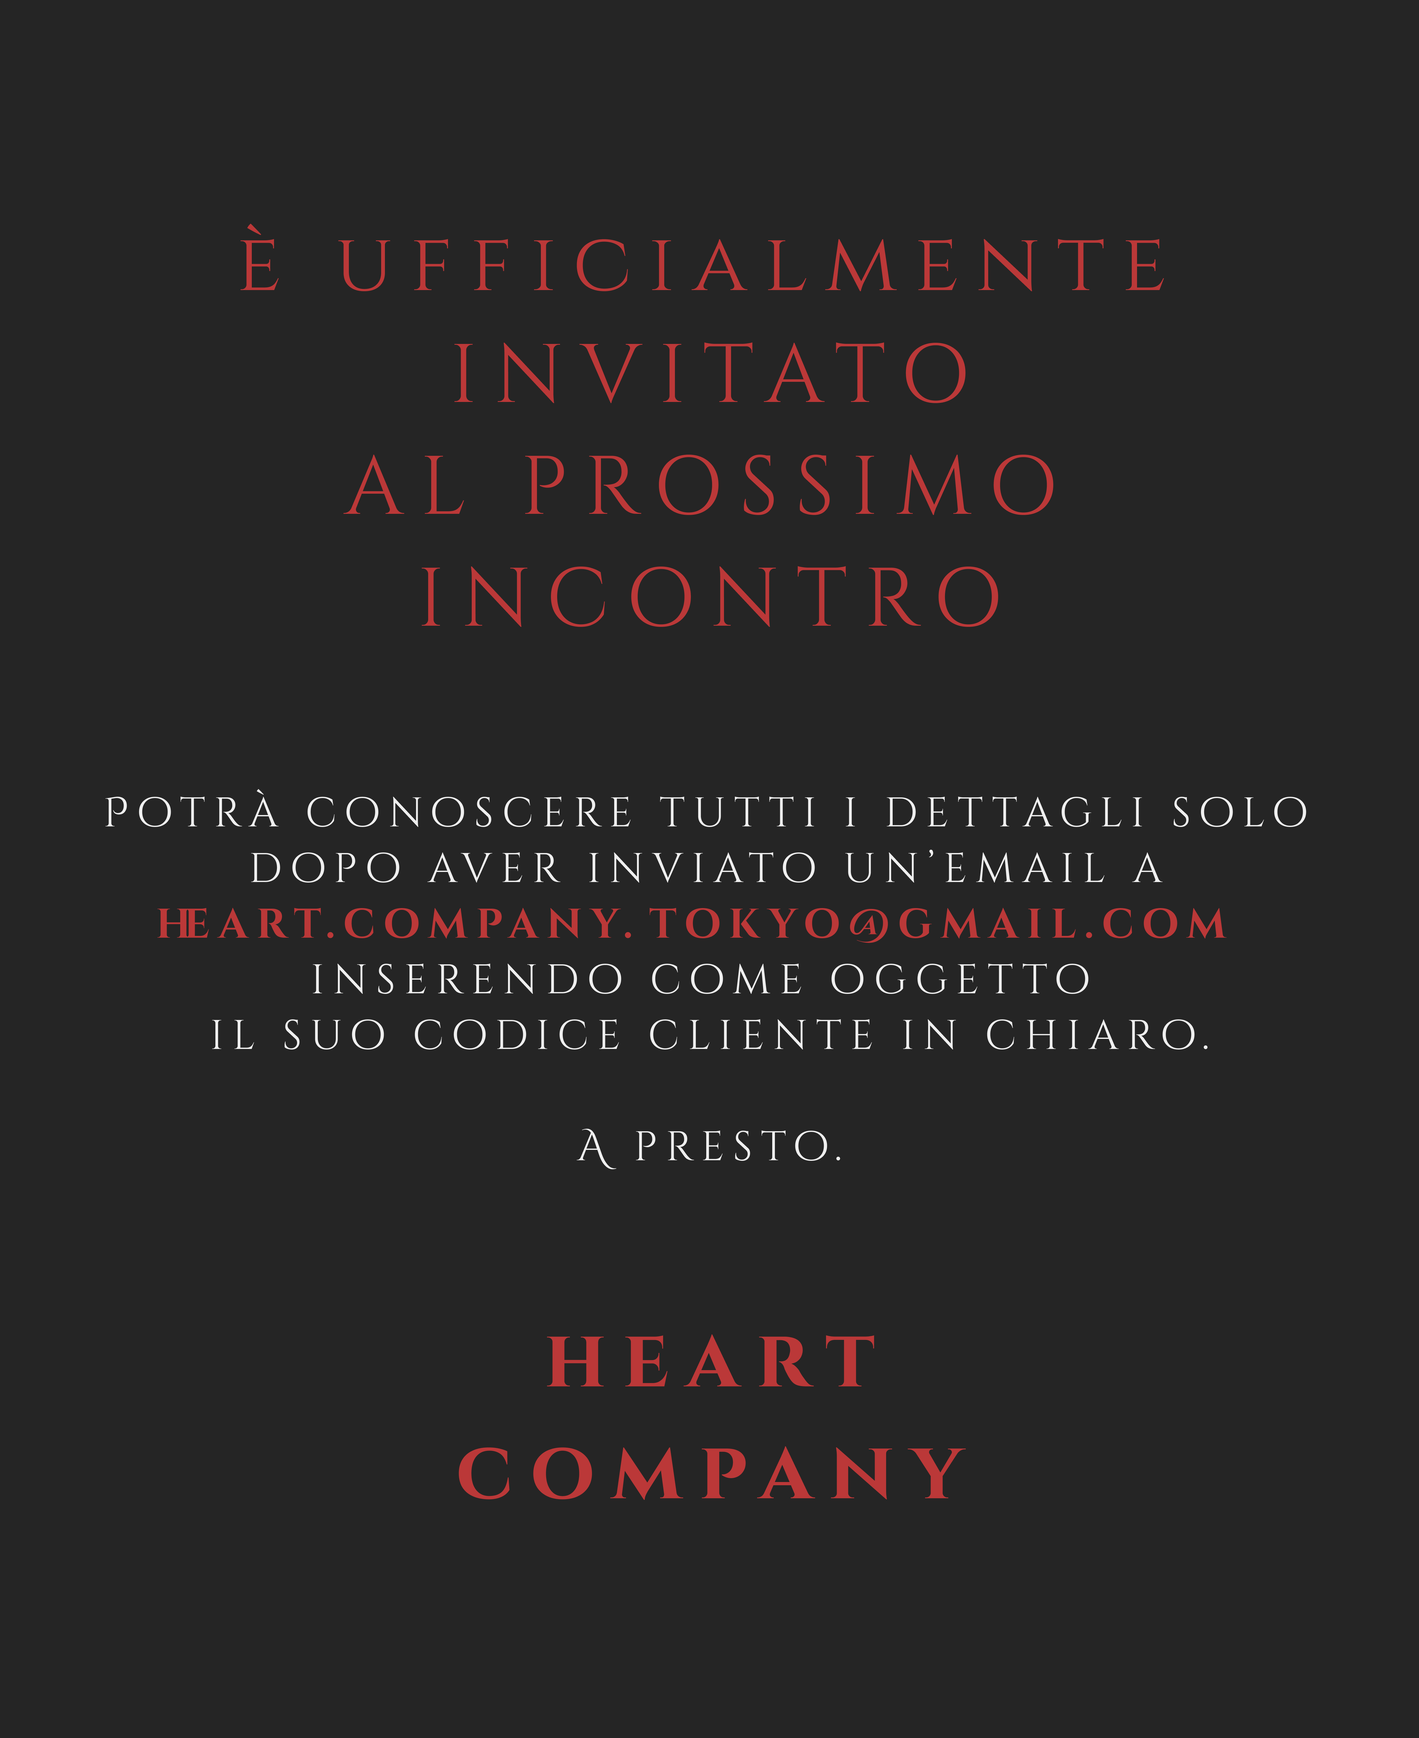
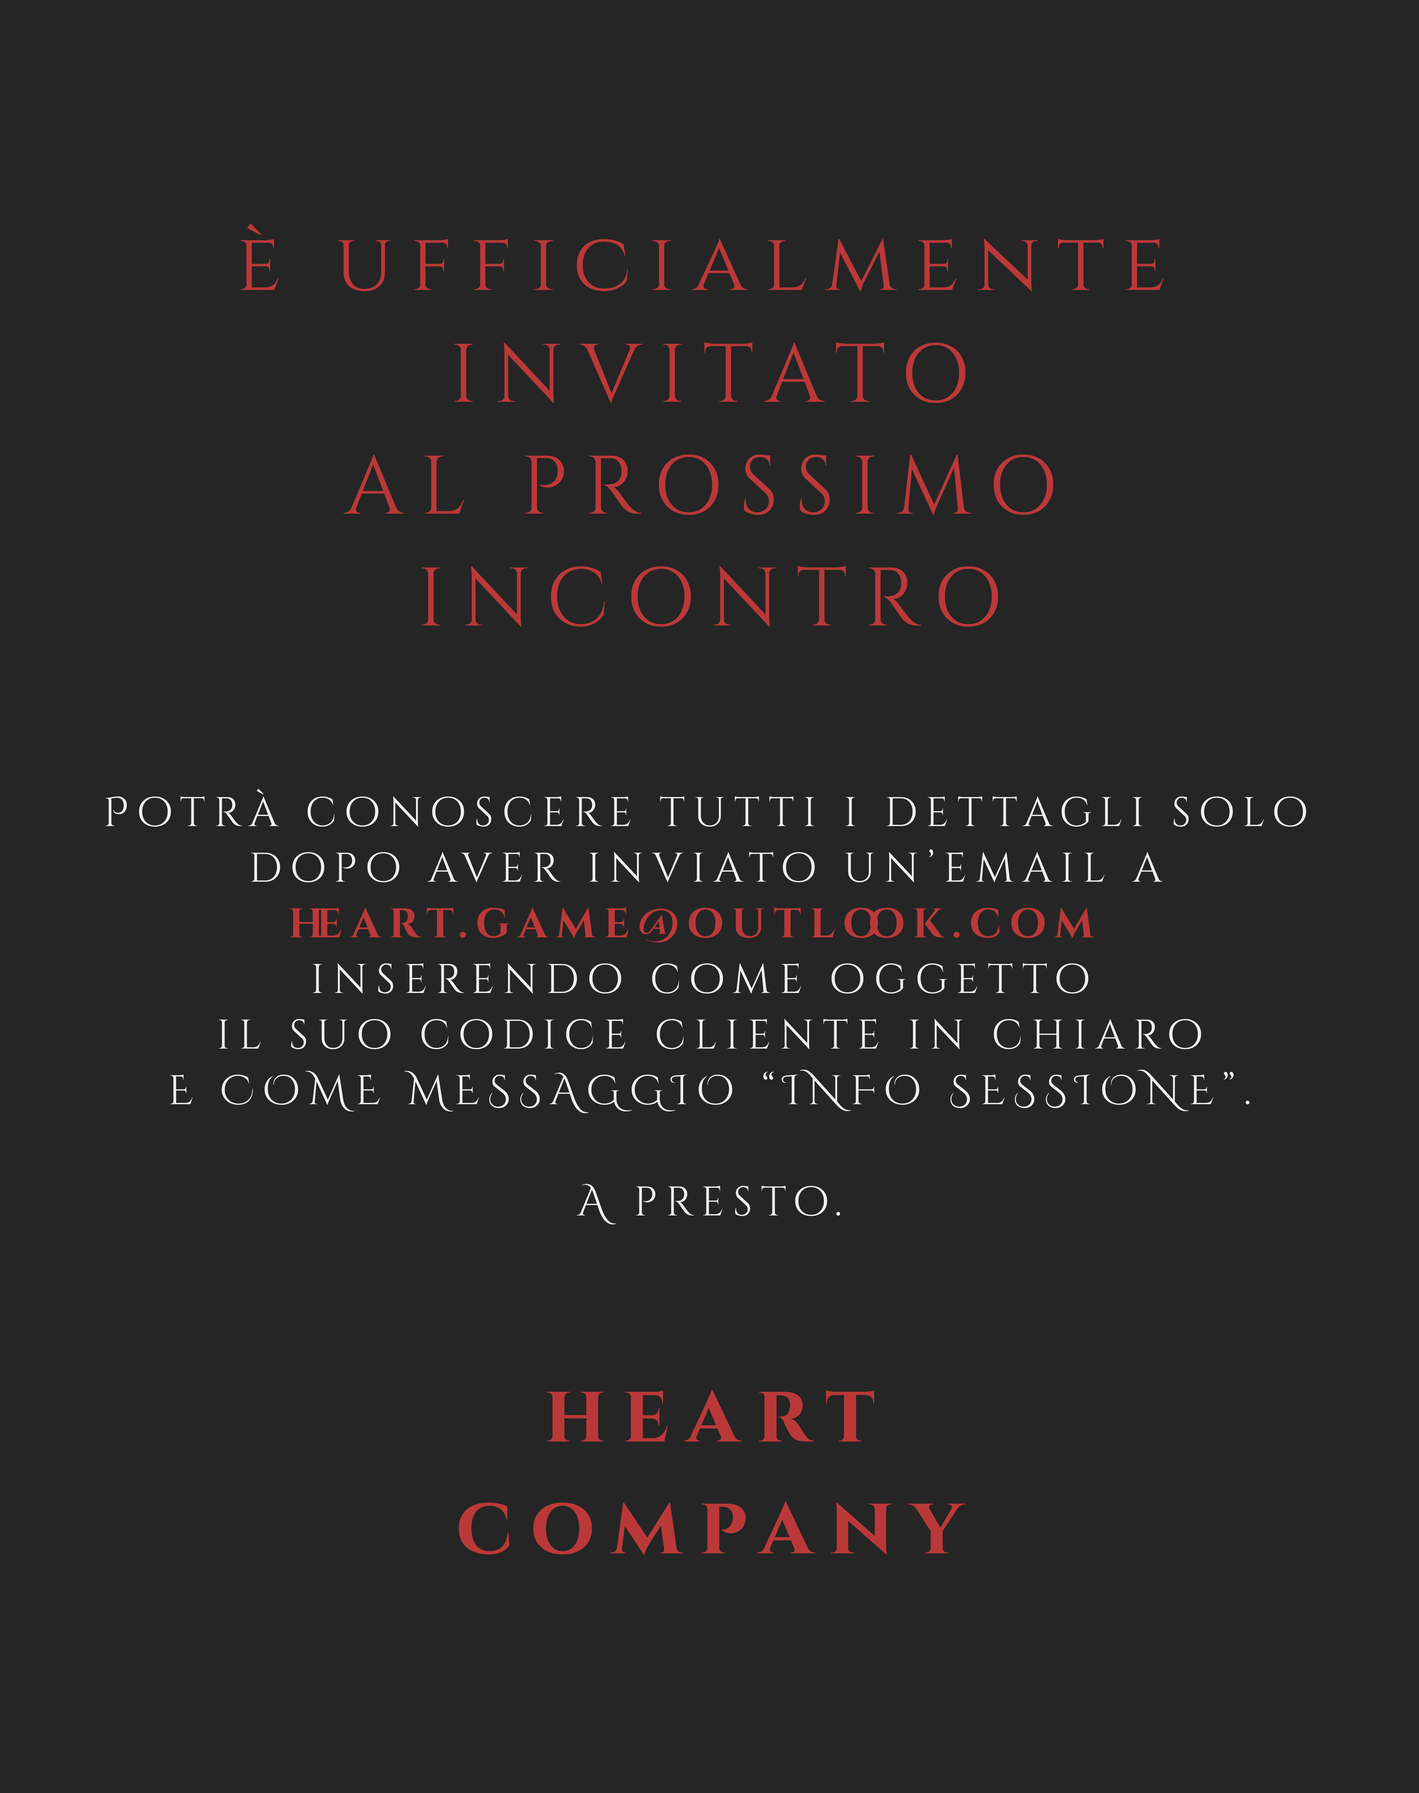
ultima versione

diff --git a/src/app/core/data/emails.data.ts b/src/app/core/data/emails.data.ts
@@ -1,63 +1,73 @@
 import { EmailModel } from '../models/email.model';
 
 export const emails: { [key: string]: EmailModel[] } = {
[1 lines of base64/hex data omitted]
+  'marco.mancini@pmail.mycases.org': [
     {
-      id: 7,
+      id: 1,
       sender: 'WhiteGuard',
       subject: 'RE: Si può condizionare il funzionamento dei telecomandi TJ2888?',
       body: 'Ciao,\nabbiamo ricevuto la tua domanda del 10/03/2025,\ngrazie per averci contattato.\nDopo diversi test, ti confermiamo che non è possibile condizionare il funzionamento dei telecomandi TJ2888, il chip al loro interno presenta un sistema di cifratura non bypassabile.\nSe hai bisogno di ulteriori informazioni, non esitare a contattarci.\nGrazie!',
-      date: new Date("2025-03-29"),
-      images: ['assets/logo.png'],
+      date: new Date("2025-03-29T23:59:59"),
       folder: 'inbox',
       toRead: true
     },
     {
-      id: 9,
+      id: 2,
       sender: 'Tu',
       to: 'Giorgia D\'Agostino',
       subject:
         'RE: Che fine hai fatto?',
-      body: 'Puoi pensarci tu, tanto la mia opinione non conta! Poi sono impegnato con la preparazione degli spettacoli, lo sai.',
+      body: 'Puoi pensarci tu, tanto la mia opinione non conta! Poi sono impegnato con la preparazione degli spettacoli, lo sai.\n\n\n\n---------------------Original Message---------------------\n\nDa: Giorgia D\'agostino\nDate: Ven 14 Feb 2025\n\nTi mando un\'email dato che non rispondi al telefono, entra in call immediatamente! Ti stiamo tutti aspettando!',
       date: new Date("2025-03-16"),
       folder: 'sent',
     },
     {
-      id: 1,
+      id: 3,
       sender: 'Giorgia D\'Agostino',
       subject:
         'Che fine hai fatto?',
       body: 'Ti mando un\'email dato che non rispondi al telefono, entra in call immediatamente! Ti stiamo tutti aspettando!',
-      date: new Date("2025-03-16"),
+      date: new Date("2025-02-14T12:12:50"),
       folder: 'inbox',
     },
     {
-      id: 2,
-      sender: 'Luigi Barra',
-      subject: 'Progetto Maximium - Documento aggiornato e nuove scadenze',
-      body: 'Ciao,\nti ho invio il documento aggiornato per il Progetto Maximium.\nHo incluso tutte le modifiche richieste e le nuove scadenze.\nFammi sapere se hai bisogno di ulteriori informazioni.\nGrazie!',
-      date: new Date("2025-03-17"),
-      folder: 'inbox',
-    },
-    {
-      id: 3,
-      sender: 'Nimbus AI',
-      subject: 'Esplora l’app Nimbus, l’assistente IA che ti segue ovunque',
-      body: 'Scarica l’app Nimbus sul tuo dispositivo mobile mantenendo le chat e le query del tuo PC per continuare a lavorare ai tuoi progetti anche quando sei in giro, realizzare immagini creative e modificare foto dal tuo telefono.',
-      date: new Date("2025-03-17"),
+      id: 23,
+      sender: 'Supporto Tecnico',
+      subject:
+        'Eliminazione automatica Email precedenti al 14/02/2025',
+      body: 'Gentile utente,\nti informiamo che, in conformità con le policy aziendali sulla conservazione dei dati, le sue email precedenti alla data corrente sono state automaticamente eliminate.\nTi invitiamo a salvare eventuali informazioni importanti in locale.\n\nPer ulteriori dettagli, contatta il supporto IT.\n\nCordiali saluti, Il Team IT',
+      date: new Date("2025-02-14T12:12:50"),
       folder: 'inbox',
     },
     {
       id: 4,
-      sender: 'Giulia Neri',
-      subject:
-        'Vacanze estive - Idee e suggerimenti per la tua prossima destinazione',
-      body: 'Ciao, hai già deciso dove andare per le vacanze estive? Se hai bisogno di idee o suggerimenti, fammi sapere. Ho alcune destinazioni che potrebbero interessarti. A presto!',
-      date: new Date("2025-03-19"),
-      folder: 'sent',
+      sender: 'Luigi Barra',
+      subject: 'Progetto Maximium - Documento aggiornato e nuove scadenze',
+      body: 'Ciao\nHo caricato il documento aggiornato per il Progetto Maximium.\nHo incluso tutte le modifiche richieste e le nuove scadenze.\nFammi sapere se hai bisogno di ulteriori informazioni.\nGrazie!',
+      date: new Date("2025-03-17T14:20:00"),
+      folder: 'inbox',
     },
     {
       id: 5,
+      sender: 'Nimbus AI',
+      subject: 'Esplora l’app Nimbus, l’assistente IA che ti segue ovunque',
+      body: 'Scarica l’app Nimbus sul tuo dispositivo mobile mantenendo le chat e le query del tuo PC per continuare a lavorare ai tuoi progetti anche quando sei in giro, realizzare immagini creative e modificare foto dal tuo telefono.',
+      date: new Date("2025-03-17"),
+      images: ['assets/nimbus.png'],
+      folder: 'inbox',
+    },
+    {
+      id: 6,
+      sender: 'Travel Around',
+      subject:
+        'Vacanze estive - Idee e suggerimenti per la tua prossima destinazione 🏖⛱',
+      body: 'Ciao, hai già deciso dove andare per le vacanze estive?\nSe hai bisogno di idee o suggerimenti, fammi sapere.\nHo alcune destinazioni che potrebbero interessarti.\n\nA presto!',
+      date: new Date("2025-03-19"),
+      images: ['assets/vacanza.png'],
+      folder: 'inbox',
+    },
+    {
+      id: 7,
       sender: 'Francesco Michelini',
       subject: 'Abstract Tesi',
       body: 'Ciao, ecco il link per il documento di cui ti parlavo: <a target="_blank" href="assets/docs/abstract-tesi.pdf">Link</a> ',
@@ -65,119 +75,72 @@ export const emails: { [key: string]: EmailModel[] } = {
       folder: 'inbox',
     },
     {
-      id: 6,
+      id: 8,
       sender: 'Giacomo Ferrante',
-      subject: 'Pronto? Ti stiamo aspettando!',
-      body: "Questa è la volta buona, me lo sento!",
+      subject: 'Fwd: Pronto? Ti stiamo aspettando!',
+      body: "Questa è la volta buona, me lo sento!\n\n---------------------Forwarded Message---------------------\n\nDa: Heath Company\nDate: Mer 26 Mar 2025 01:20\nA: Giacomo Ferrante",
       images: ['assets/email-heart.png'],
-      date: new Date("2025-03-27"),
+      date: new Date("2025-03-27T12:15:00"),
       folder: 'inbox',
     },
     {
-      id: 8,
-      sender: 'sara.neri@example.com',
-      subject: 'Evento aziendale - Non mancare al nostro evento annuale',
-      body: "Ciao, ti ricordo il nostro evento aziendale annuale che si terrà la prossima settimana. È un'ottima occasione per incontrare colleghi e discutere dei nostri successi. Non mancare!",
-      date: new Date(),
+      id: 13,
+      sender: 'Anna Verdi',
+      subject: 'Gala anniversario 🍾 - Conferma la tua presenza',
+      body: 'Ciao!\nCome sapete il 29 Marzo la nostra azienda compirà 22 anni.\nFesteggia con noi! Ci vediamo Venerdì 28 Marzo alle 21:00 per attendere insieme la mezzanotte 🎇!\nNon mancherà da bere e mangiare per tutti 🍕🍾.\nTi aspettiamo!',
+      date: new Date("2025-03-20T17:00:00"),
+      images: ['assets/festa.png'],
       folder: 'inbox',
     },
     {
-      id: 9,
-      sender: 'luca.rossi@example.com',
-      subject: 'Richiesta informazioni - Maggiori dettagli sul progetto',
-      body: 'Ciao, puoi inviarmi maggiori dettagli sul progetto di cui abbiamo parlato? Ho bisogno di alcune informazioni aggiuntive per procedere. Grazie per la collaborazione.',
-      date: new Date(),
-      folder: 'trash',
-    },
-    {
-      id: 10,
-      sender: 'Elena Bianchi',
-      subject: 'Nuovo incarico - Dettagli del progetto assegnato',
-      body: 'Ciao,\nti è stato assegnato un nuovo progetto.\nIn allegato trovi tutti i dettagli e le scadenze. Se hai domande, non esitare a contattarmi.\nBuon lavoro!',
-      date: new Date(),
-      folder: 'trash',
-    },
-    {
-      id: 1,
-      sender: 'mario.rossi@example.com',
-      subject:
-        'Ciao Mario, come stai? Spero tutto bene e che tu abbia passato una buona giornata.',
-      body: 'Ciao Mario, come stai? Spero tutto bene e che tu abbia passato una buona giornata. Volevo solo farti sapere che ho ricevuto il tuo messaggio e ti risponderò al più presto. A presto!',
-      date: new Date(),
-      folder: 'inbox',
-    },
-    {
-      id: 2,
-      sender: 'luigi.bianchi@example.com',
-      subject: 'Progetto X - Documento aggiornato e nuove scadenze',
-      body: 'Ciao, ti invio il documento aggiornato per il Progetto X. Ho incluso tutte le modifiche richieste e le nuove scadenze. Fammi sapere se hai bisogno di ulteriori informazioni. Grazie!',
-      date: new Date(),
-      folder: 'inbox',
-    },
-    {
-      id: 3,
-      sender: 'anna.verdi@example.com',
-      subject: 'Cena di lavoro - Conferma della tua presenza',
-      body: 'Ciao, volevo sapere se puoi confermare la tua presenza alla cena di lavoro di venerdì prossimo. È importante per noi sapere il numero esatto di partecipanti. Grazie!',
-      date: new Date(),
-      folder: 'inbox',
-    },
-    {
-      id: 4,
-      sender: 'giulia.neri@example.com',
-      subject:
-        'Vacanze estive - Idee e suggerimenti per la tua prossima destinazione',
-      body: 'Ciao, hai già deciso dove andare per le vacanze estive? Se hai bisogno di idee o suggerimenti, fammi sapere. Ho alcune destinazioni che potrebbero interessarti. A presto!',
-      date: new Date(),
-      folder: 'inbox',
-    },
-    {
-      id: 5,
-      sender: 'francesco.rossi@example.com',
-      subject: 'Nuova offerta - Scopri le nostre promozioni esclusive',
-      body: 'Ciao, ti invio le nostre nuove promozioni esclusive. Abbiamo sconti speciali su una vasta gamma di prodotti. Non perdere questa occasione! Visita il nostro sito per maggiori dettagli.',
-      date: new Date(),
-      folder: 'inbox',
-    },
-    {
-      id: 6,
-      sender: 'marta.bianchi@example.com',
+      id: 16,
+      sender: 'Martina Russo',
       subject: 'Riunione settimanale - Promemoria e ordine del giorno',
-      body: "Ciao, ti ricordo la riunione settimanale di domani. In allegato trovi l'ordine del giorno. Se hai argomenti da aggiungere, fammi sapere. Grazie!",
+      body: "Ciao!\nTi ricordo la riunione settimanale di domani.\nHo caricato il programma della riunione.\nSe hai argomenti da aggiungere, fammi sapere.\n\nGrazie!",
       date: new Date(),
       folder: 'inbox',
     },
     {
-      id: 7,
-      sender: 'paolo.verdi@example.com',
-      subject: 'Aggiornamento software - Nuova versione disponibile',
-      body: 'Ciao, è disponibile un nuovo aggiornamento del software. Ti consiglio di installarlo il prima possibile per beneficiare delle ultime funzionalità e miglioramenti. Se hai domande, contattami.',
+      id: 17,
+      sender: 'Supporto Tecnico',
+      subject: 'Aggiornamento software aziendale - Nuova versione disponibile',
+      body: 'Ciao\nè disponibile un nuovo aggiornamento del software. \ni consiglio di installarlo il prima possibile per beneficiare delle ultime funzionalità e miglioramenti.\n\nSe hai domande, contattami.',
       date: new Date(),
       folder: 'inbox',
     },
     {
-      id: 8,
-      sender: 'sara.neri@example.com',
-      subject: 'Evento aziendale - Non mancare al nostro evento annuale',
-      body: "Ciao, ti ricordo il nostro evento aziendale annuale che si terrà la prossima settimana. È un'ottima occasione per incontrare colleghi e discutere dei nostri successi. Non mancare!",
-      date: new Date(),
-      folder: 'inbox',
-    },
-    {
-      id: 9,
-      sender: 'luca.rossi@example.com',
+      id: 19,
+      sender: 'Luca Rossi',
       subject: 'Richiesta informazioni - Maggiori dettagli sul progetto',
-      body: 'Ciao, puoi inviarmi maggiori dettagli sul progetto di cui abbiamo parlato? Ho bisogno di alcune informazioni aggiuntive per procedere. Grazie per la collaborazione.',
-      date: new Date(),
+      body: 'Ciao, puoi inviarmi le informazioni che ti ho chiesto per il progetto di cui abbiamo parlato?\nHo bisogno di alcune informazioni aggiuntive per procedere.\n\nGrazie per la collaborazione.',
+      date: new Date("2025-03-18T15:23"),
       folder: 'inbox',
     },
     {
-      id: 10,
-      sender: 'elena.bianchi@example.com',
-      subject: 'Nuovo incarico - Dettagli del progetto assegnato',
-      body: 'Ciao, ti è stato assegnato un nuovo progetto. In allegato trovi tutti i dettagli e le scadenze. Se hai domande, non esitare a contattarmi. Buon lavoro!',
-      date: new Date(),
+      id: 20,
+      sender: 'Martina Russo',
+      subject: 'Aggiornamento sulla riunione di domani con il cliente',
+      body: 'Ciao, ti scrivo per confermare l\'orario della riunione di domani.\nFacci sapere se ci sono variazioni.\n\nA presto!',
+      date: new Date("2025-03-15T15:23"),
       folder: 'inbox',
+    },
+    {
+      id: 21,
+      sender: 'Tu',
+      to: 'Martina Russo',
+      subject: 'RE: Aggiornamento sulla riunione di domani con il cliente',
+      body: 'Ciao, per me va bene\n\n\n\n---------------------Original Message---------------------\n\nDa: Martina Russo\nDate: Sab 15 Marzo 2025\n\nCiao, ti scrivo per confermare l\'orario della riunione di domani.\nFacci sapere se ci sono variazioni.\n\nA presto!',
+      date: new Date("2025-03-16T12:23"),
+      folder: 'sent',
+    },
+    {
+      id: 22,
+      sender: 'Anna Verdi',
+      subject: 'RE: Gala anniversario 🍾 - Conferma la tua presenza',
+      body: 'Non ci sarò, ho lo spettacolo la sera.\n\n\n\n---------------------Original Message---------------------\n\n\nDa: Anna Verdi\nDate: Gio 20 Marzo 2025\n\nCome sapete il 29 Marzo la nostra azienda compirà 22 anni.\nFesteggia con noi! Ci vediamo Venerdì 28 Marzo alle 21:00 per attendere insieme la mezzanotte 🎇!\nNon mancherà da bere e mangiare per tutti 🍕🍾.\nTi aspettiamo!',
+      date: new Date("2025-03-21T15:00:00"),
+      images: ['assets/festa.png'],
+      folder: 'sent',
     },
   ],
 };

diff --git a/src/app/folder/folder.component.html b/src/app/folder/folder.component.html
@@ -1,46 +1,20 @@
-<link
-  rel="stylesheet"
-  href="//cdn.materialdesignicons.com/3.7.95/css/materialdesignicons.min.css"
-/>
+<link rel="stylesheet" href="//cdn.materialdesignicons.com/3.7.95/css/materialdesignicons.min.css" />
 
 <mat-sidenav-container class="sidenav-container" fullscreen>
-  <mat-sidenav
-    #sidenav
-    class="py-2 px-4"
-    [opened]="sidenavMode === 'side' || isSidenavOpen"
-    [mode]="sidenavMode"
-  >
+  <mat-sidenav #sidenav class="py-2 px-4" [opened]="sidenavMode === 'side' || isSidenavOpen" [mode]="sidenavMode">
     <mat-nav-list class="h-100">
       <!-- <span class="username">
         {{ (authService.getUsername()?.split("@"))![0] }}
       </span> -->
-      <a
-        (click)="toggleSidenav()"
-        routerLink="/inbox"
-        routerLinkActive="active-list-item"
-        mat-list-item
-        class="mb-2"
-      >
+      <a (click)="toggleSidenav()" routerLink="/inbox" routerLinkActive="active-list-item" mat-list-item class="mb-2">
         <mat-icon matListItemIcon class="me-2">inbox</mat-icon>
         <span matListItemTitle>Posta in arrivo</span>
       </a>
-      <a
-        (click)="toggleSidenav()"
-        routerLink="/sent"
-        routerLinkActive="active-list-item"
-        mat-list-item
-        class="mb-2"
-      >
+      <a (click)="toggleSidenav()" routerLink="/sent" routerLinkActive="active-list-item" mat-list-item class="mb-2">
         <mat-icon matListItemIcon class="me-2">send</mat-icon>
         <span matListItemTitle>Inviati</span>
       </a>
-      <a
-        (click)="toggleSidenav()"
-        routerLink="/trash"
-        routerLinkActive="active-list-item"
-        mat-list-item
-        class="mb-2"
-      >
+      <a (click)="toggleSidenav()" routerLink="/trash" routerLinkActive="active-list-item" mat-list-item class="mb-2">
         <mat-icon matListItemIcon class="me-2">delete</mat-icon>
         <span matListItemTitle>Eliminate</span>
       </a>
@@ -64,18 +38,23 @@
           @case ('sent') { Inviati } @case ('deleted') { Eliminate } }
         </span>
       </div>
-      <span
-        ><span style="font-size: 1.5rem">P</span
-        ><small style="color: rgb(218, 218, 218)">mail</small></span
-      >
+      <span><span style="font-size: 1.5rem">P</span><small style="color: rgb(218, 218, 218)">mail</small></span>
     </mat-toolbar>
     <div class="px-3">
       <div class="email-wrapper wrapper h-100">
         <div class="row align-items-stretch h-100">
           <div class="mail-list-container col-md-10 border-right w-100">
             <div class="mail-list">
-              @for (email of emails$ | async; track email.id) {
+              @for (email of emails$ | async; track email.id;let last = $last) {
               <app-mail-item [mail]="email"></app-mail-item>
+              }@empty {
+              <!-- Se non ci sono email, mostra un messaggio -->
+              <div class="no-emails text-center mt-5" style="color: #6c757d; font-family: Arial, sans-serif;">
+                <mat-icon class="mb-2" style="scale: 3; color: #9e9e9e;">inbox</mat-icon>
+                <br><br>
+                <h3 style="font-weight: bold; font-size: 1.5rem;">Non hai email in questa cartella</h3>
+                <p style="font-size: 1rem; margin-top: 0.5rem;">Controlla le altre cartelle.</p>
+              </div>
               }
             </div>
           </div>

diff --git a/src/app/core/resolvers/email.resolver.ts b/src/app/core/resolvers/email.resolver.ts
@@ -6,7 +6,7 @@ import { AuthService } from '../services/auth.service';
 
 export const emailResolver: ResolveFn<EmailModel> = (route, state) => {
   const id = route.params['id'];
-  const token = inject(AuthService).getToken();
+  const username = inject(AuthService).getUsername();
 
-  return emails[token!].find(email => email.id.toString() === id)!;
+  return emails[username!].find(email => email.id.toString() === id)!;
 };

diff --git a/src/app/folder/folder.component.ts b/src/app/folder/folder.component.ts
@@ -49,7 +49,7 @@ export class FolderComponent {
     this.currentFolder = route.params.pipe(map((params) => params['folder']));
     this.emails$ = this.currentFolder.pipe(
       map((folder) =>
-        emails[authService.getToken()!]
+        emails[authService.getUsername()!]
           .filter((em) => em.folder === folder)
           .sort((a,b) => b.date.getTime() - a.date.getTime())
       )

diff --git a/src/app/core/services/auth.service.ts b/src/app/core/services/auth.service.ts
@@ -8,7 +8,7 @@ import * as CryptoJS from 'crypto-js';
 })
 export class AuthService {
   private users = [
[2 lines of base64/hex data omitted]
   ];
 
   private passwordDimenticataDict: { [key: string]: string } = {

diff --git a/src/app/folder/folder.component.scss b/src/app/folder/folder.component.scss
@@ -38,11 +38,6 @@ mat-list-item:hover {
   /* Colore chiaro di evidenziazione */
 }
 
-/* Stile per il contenuto principale quando il sidenav è aperto */
-mat-sidenav-content {
-  background-color: #f9f9f9;
-  color: #333;
-}
 
 /* Rendi il contenuto del menu laterale più gradevole */
 mat-list-item {

diff --git a/src/app/mail-item/mail-item.component.scss b/src/app/mail-item/mail-item.component.scss
@@ -9,6 +9,7 @@ a {
     padding: 10px 15px;
     width: 100%;
     cursor: pointer;
+    color: #666666;
 
     &:hover {
         background-color: #f9f9f9;
